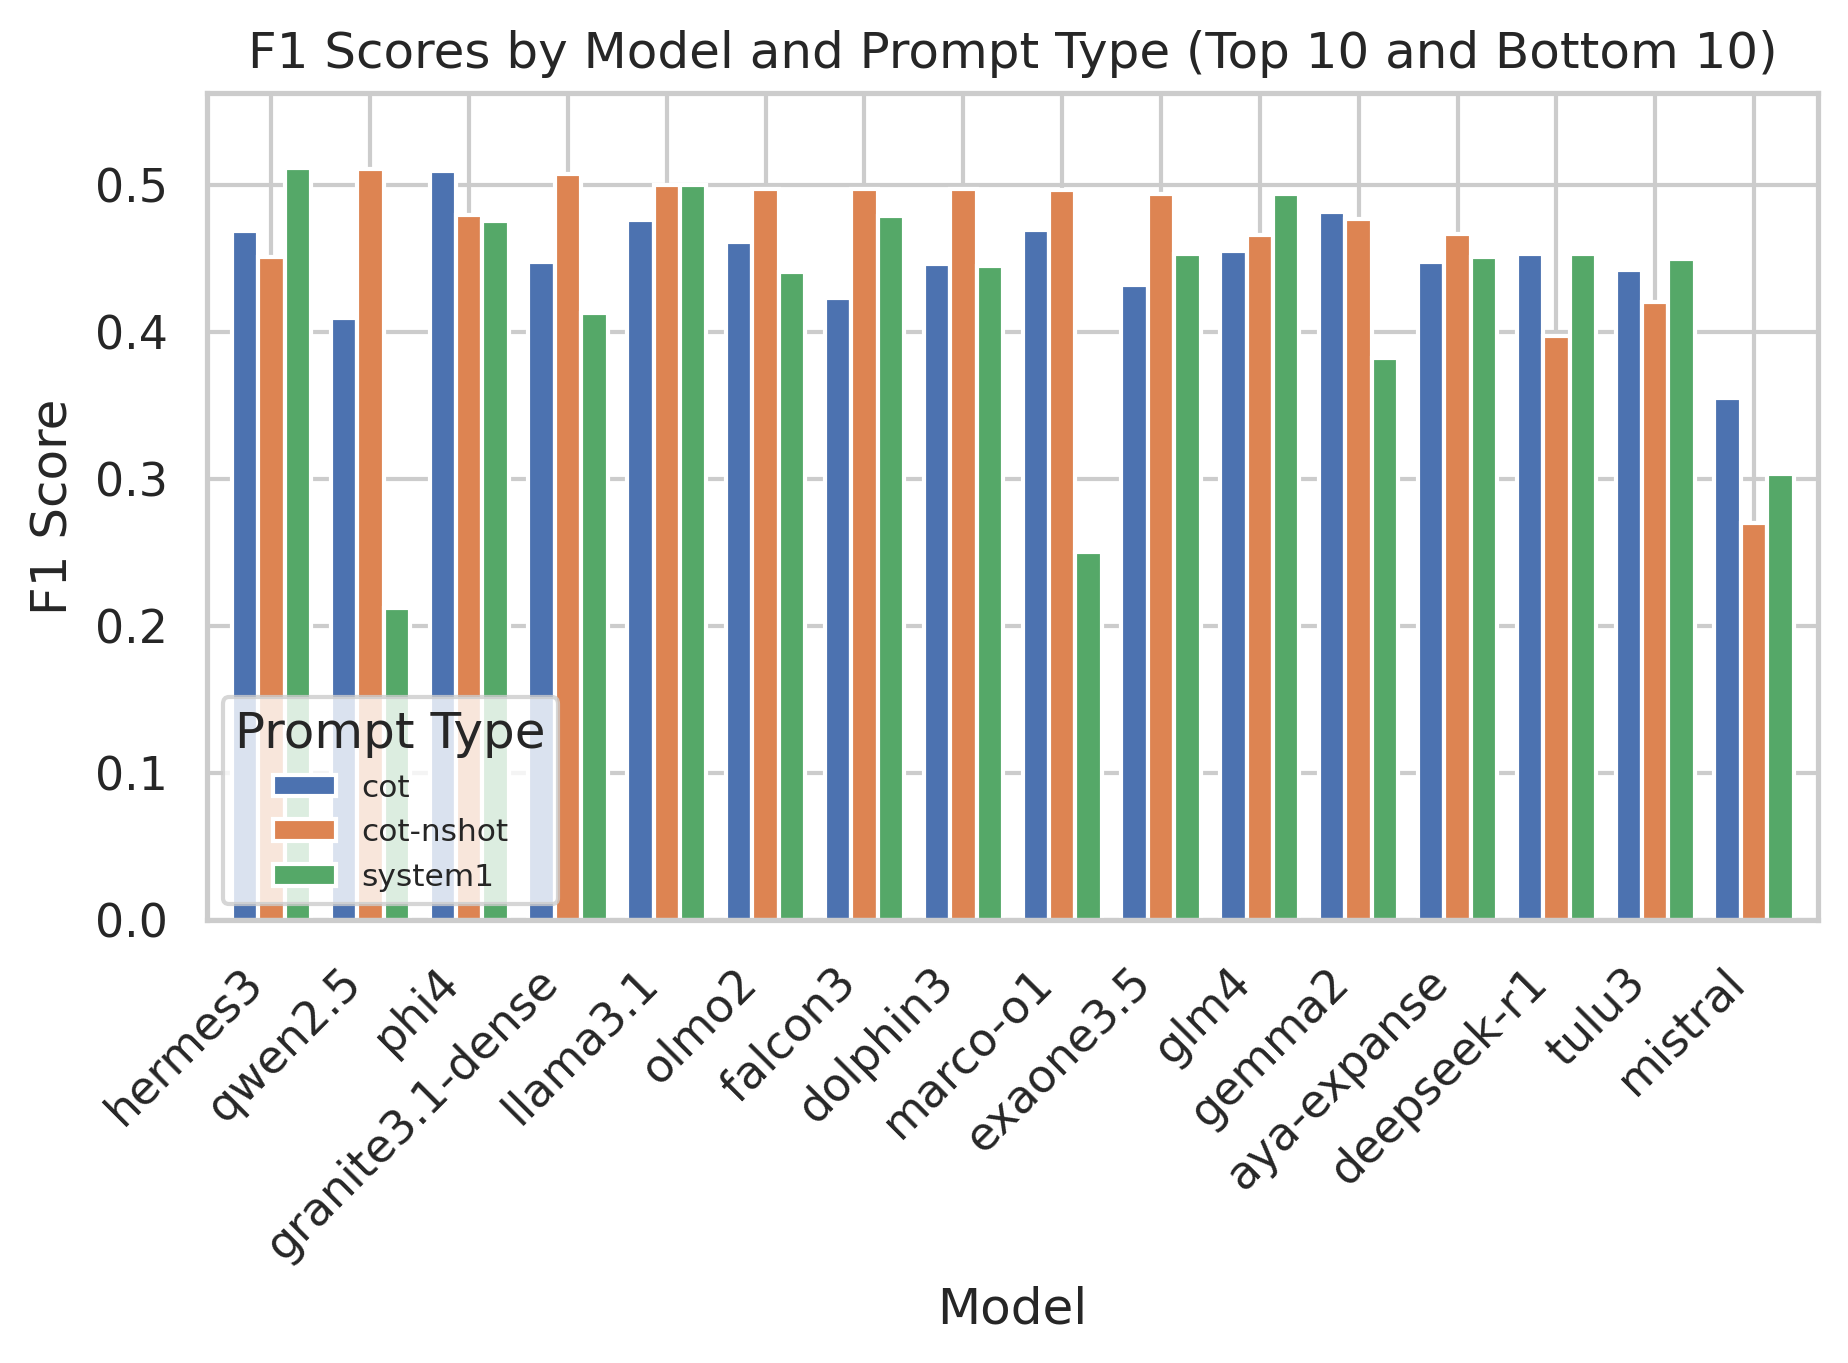
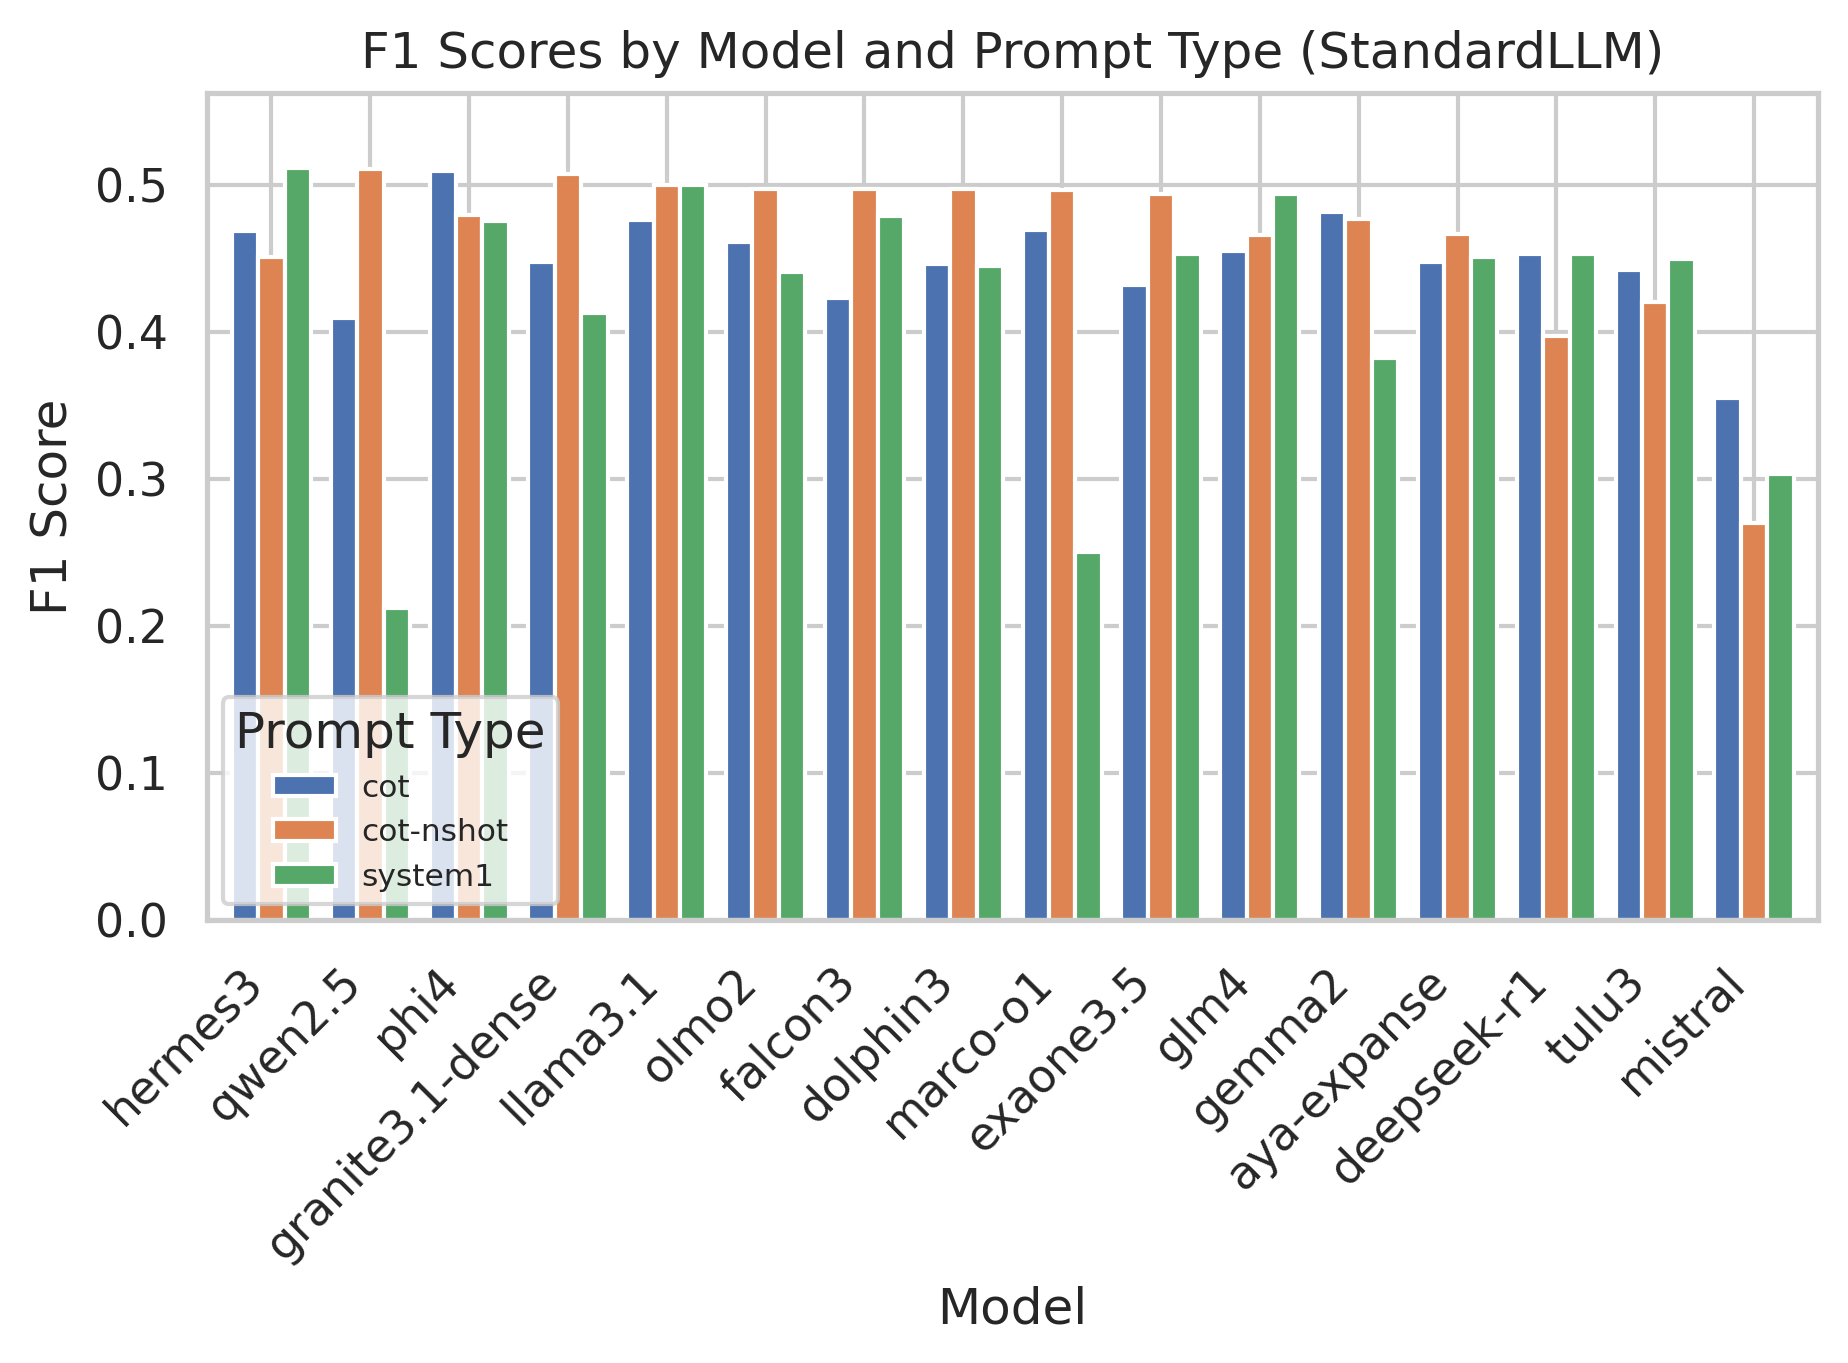
SandardLLM plots

Changed region(s): [[0.1542, 0.0, 0.9562, 0.0616]]

diff --git a/src/step3_visualize_model_statistics_ver6.py b/src/step3_visualize_model_statistics_ver6.py
@@ -95,7 +95,7 @@ def plot_f1_by_model_prompt(df):
     create_plot_base(figsize=(15, 6))
     plot_data.plot(kind='bar', width=0.8, color=COLORS)
     
-    plt.title('F1 Scores by Model and Prompt Type (Top 10 and Bottom 10)')
+    plt.title('F1 Scores by Model and Prompt Type (StandardLLM)')
     plt.xlabel('Model')
     plt.ylabel('F1 Score')
     plt.legend(title='Prompt Type', bbox_to_anchor=(0, 0), loc='lower left', fontsize=7.5)
@@ -125,7 +125,7 @@ def plot_accuracy_by_model_prompt(df):
     create_plot_base(figsize=(15, 6))
     plot_data.plot(kind='bar', width=0.8, color=COLORS)
     
-    plt.title('Accuracy by Model and Prompt Type (Top 10 and Bottom 10)')
+    plt.title('Accuracy by Model and Prompt Type (StandardLLM)')
     plt.xlabel('Model')
     plt.ylabel('Accuracy')
     plt.legend(title='Prompt Type', bbox_to_anchor=(0, 0), loc='lower left', fontsize=7.5)
@@ -164,7 +164,7 @@ def plot_top_bottom_f1_scores(df):
     plt.text(14.5, max_height * 0.9, 'BOTTOM 10',
              ha='center', va='center', fontsize=32, fontweight='bold', alpha=0.5)
     
-    plt.title('Top 10 and Bottom 10 F1 Scores by Model + Prompt Type')
+    plt.title('Top 10 and Bottom 10 F1 Scores (StandardLLM)')
     plt.xlabel('Model + Prompt Type')
     plt.ylabel('F1 Score')
     plt.xticks(range(len(plot_data)), plot_data['model_prompt'], rotation=45, ha='right')
@@ -253,7 +253,7 @@ def plot_metric_vs_variable(df, x_var, x_label, output_filename):
             print(f"Error adding label for point: {row['model_name_clean']}")
             print(f"Error details: {e}")
     
-    plt.title(f'F1 Score vs {x_label} (All Models)', fontsize=16)
+    plt.title(f'F1 Score vs {x_label} (StandardLLM)', fontsize=16)
     plt.xlabel(x_label, fontsize=14)
     plt.ylabel('F1 Score', fontsize=14)
     plt.grid(True, alpha=0.3)
